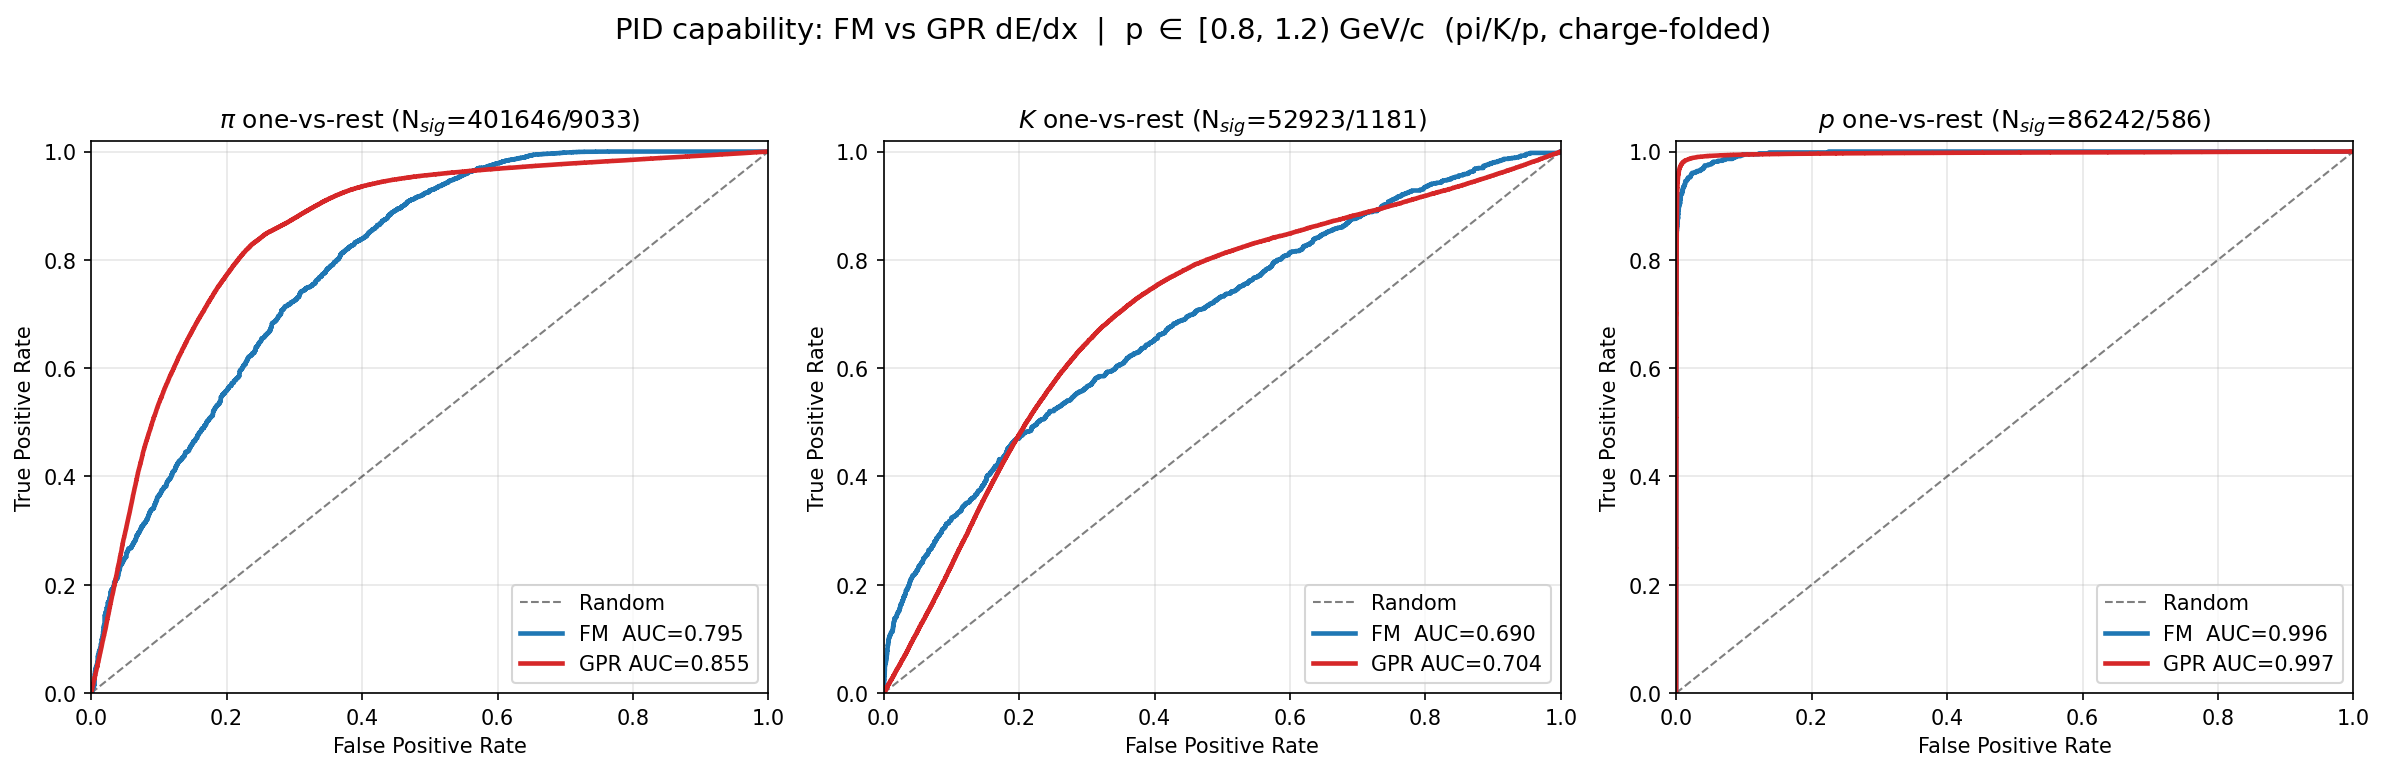
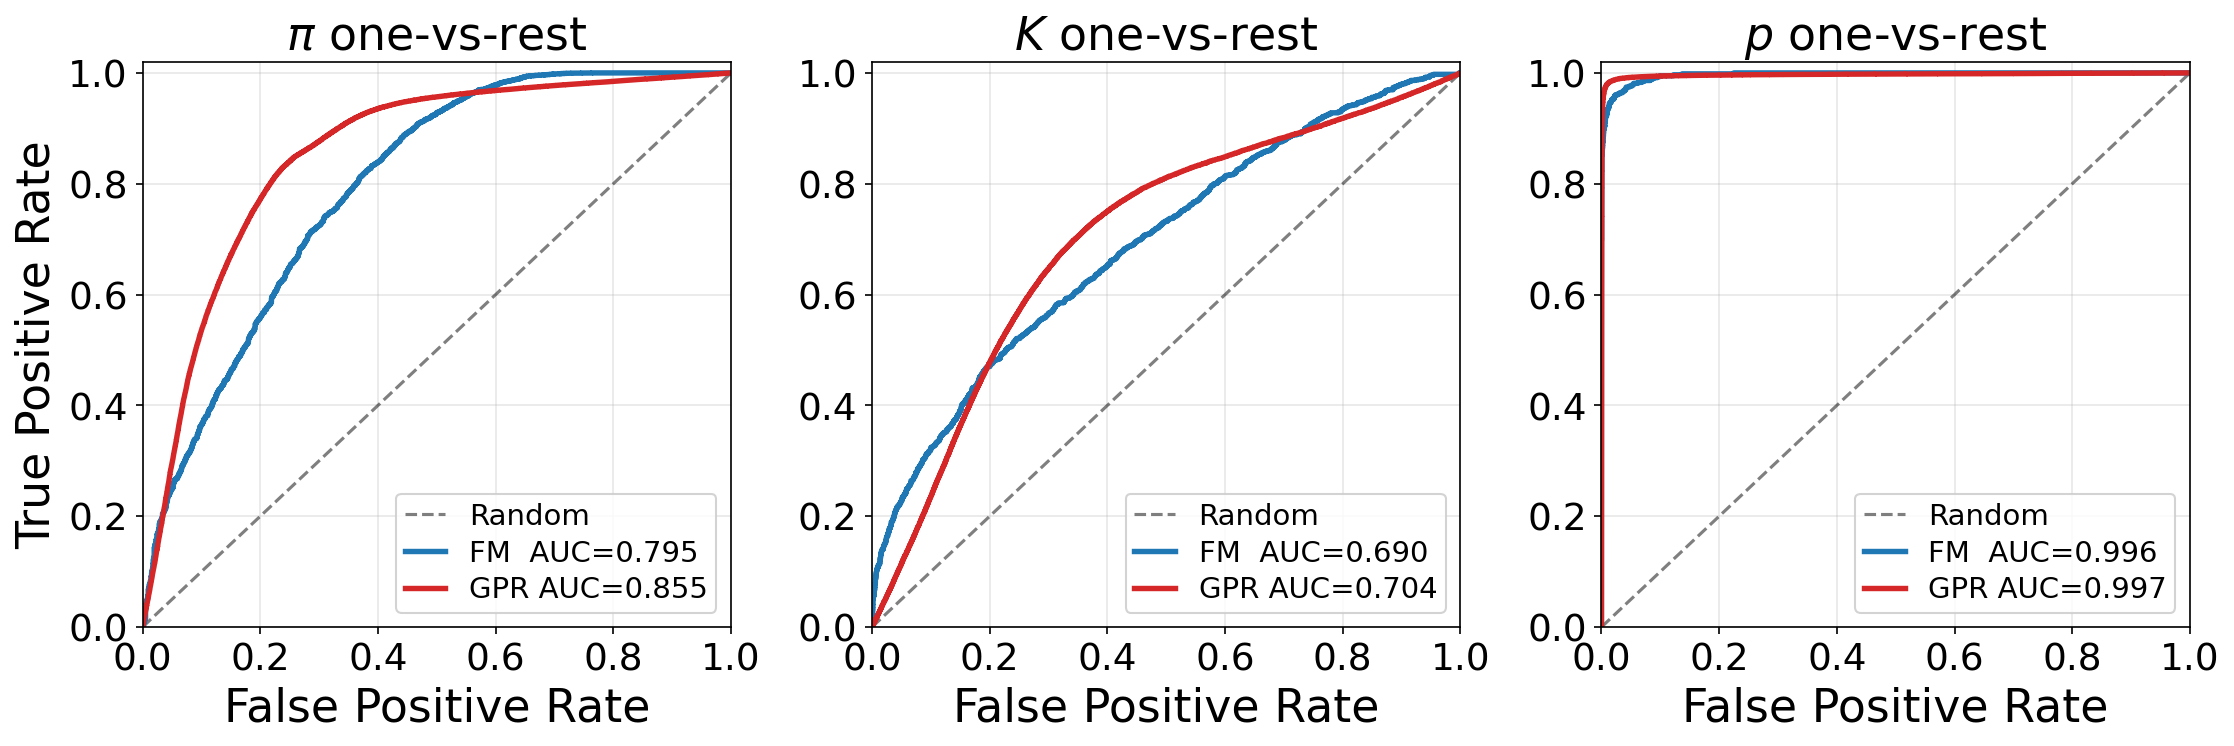
Restyle FM vs GPR ROC plots; add [0,1) and [1,2) momentum bins
Paper-scale fonts, drop figure/N_sig titles, tighter layout, compact legend.
Add ROC comparison plots for p in [0,1) and [1,2) GeV/c (same 0.5-2.0 GPR
band reused for all bins; [0,1) extrapolates below 0.5, noted in README).

diff --git a/fm-vs-gpr/compare_pid_roc.py b/fm-vs-gpr/compare_pid_roc.py
@@ -287,8 +287,17 @@ def main():
         fm_df = pd.read_csv(fm_cache)
 
     # --- plot ---------------------------------------------------------------
+    # Paper-sized fonts: ~ body-text size relative to the figure.
+    plt.rcParams.update({
+        "font.size": 20,
+        "axes.titlesize": 22,
+        "axes.labelsize": 22,
+        "xtick.labelsize": 18,
+        "ytick.labelsize": 18,
+        "legend.fontsize": 19,
+    })
     lo, hi = args.bin_lo, args.bin_hi
-    fig, axes = plt.subplots(1, 3, figsize=(16, 5.2), dpi=150)
+    fig, axes = plt.subplots(1, 3, figsize=(15, 5.0), dpi=150)
     summary = []
     for ax, sp in zip(axes, SPECIES):
         fpr_g, tpr_g, auc_g, npos_g, ntot_g = roc_for_bin(
@@ -297,27 +306,25 @@ def main():
         fpr_f, tpr_f, auc_f, npos_f, ntot_f = roc_for_bin(
             fm_df, f"score_{sp}", "gt_pid_class", cls, lo, hi)
 
-        ax.plot([0, 1], [0, 1], "k--", lw=1, alpha=0.5, label="Random")
-        ax.plot(fpr_f, tpr_f, color="tab:blue", lw=2.2,
+        ax.plot([0, 1], [0, 1], "k--", lw=1.5, alpha=0.5, label="Random")
+        ax.plot(fpr_f, tpr_f, color="tab:blue", lw=2.6,
                 label=f"FM  AUC={auc_f:.3f}")
-        ax.plot(fpr_g, tpr_g, color="tab:red", lw=2.2,
+        ax.plot(fpr_g, tpr_g, color="tab:red", lw=2.6,
                 label=f"GPR AUC={auc_g:.3f}")
-        ax.set_title(f"{SPECIES_NAME[sp]} one-vs-rest "
-                     f"(N$_{{sig}}$={npos_g}/{npos_f})", fontsize=12)
+        ax.set_title(f"{SPECIES_NAME[sp]} one-vs-rest")
         ax.set_xlabel("False Positive Rate")
-        ax.set_ylabel("True Positive Rate")
+        if ax is axes[0]:
+            ax.set_ylabel("True Positive Rate")
         ax.set_xlim(0, 1); ax.set_ylim(0, 1.02)
         ax.grid(alpha=0.3)
-        ax.legend(loc="lower right", fontsize=10)
+        ax.legend(loc="lower right", fontsize=14, handlelength=1.4,
+                  borderpad=0.3, labelspacing=0.3, framealpha=0.85)
         summary += [
             dict(species=sp, method="FM", auc=auc_f, n_sig=npos_f, n_tot=ntot_f),
             dict(species=sp, method="GPR", auc=auc_g, n_sig=npos_g, n_tot=ntot_g),
         ]
 
-    fig.suptitle(
-        f"PID capability: FM vs GPR dE/dx  |  p $\\in$ [{lo}, {hi}) GeV/c"
-        f"  (pi/K/p, charge-folded)", fontsize=14)
-    fig.tight_layout(rect=[0, 0, 1, 0.96])
+    fig.tight_layout(pad=0.4, w_pad=0.6)
     png = os.path.join(args.outdir, f"pid_roc_comparison_{lo}_{hi}.png")
     pdf = os.path.join(args.outdir, f"pid_roc_comparison_{lo}_{hi}.pdf")
     fig.savefig(png, bbox_inches="tight")

diff --git a/fm-vs-gpr/README.md b/fm-vs-gpr/README.md
@@ -8,9 +8,15 @@ curve** of two PID methods in a single momentum bin (default **0.8–1.2 GeV/c**
 - **FM** — Shuhang's foundation model, per-point PID probabilities aggregated to
   track level.
 
-Output: `pid_roc_comparison_0.8_1.2.{png,pdf}` and `auc_summary_0.8_1.2.csv`.
+Output (one set per momentum bin): `pid_roc_comparison_<lo>_<hi>.{png,pdf}` and
+`auc_summary_<lo>_<hi>.csv`. Generated bins: **0.8–1.2**, **0.0–1.0**, **1.0–2.0** GeV/c.
 
 ![comparison](pid_roc_comparison_0.8_1.2.png)
+
+> **GPR is always fit over 0.5–2.0 GeV/c** (one band set, reused for every bin).
+> In the **0.0–1.0** bin most tracks sit below 0.5 GeV/c, where the GPR band is
+> *extrapolated* — its AUC there reflects out-of-fit-range behavior, not low-p
+> dE/dx capability. The 1.0–2.0 bin is fully inside the fit range.
 
 ## Result (p ∈ [0.8, 1.2) GeV/c, 1M ROOT / FM eval set)
 